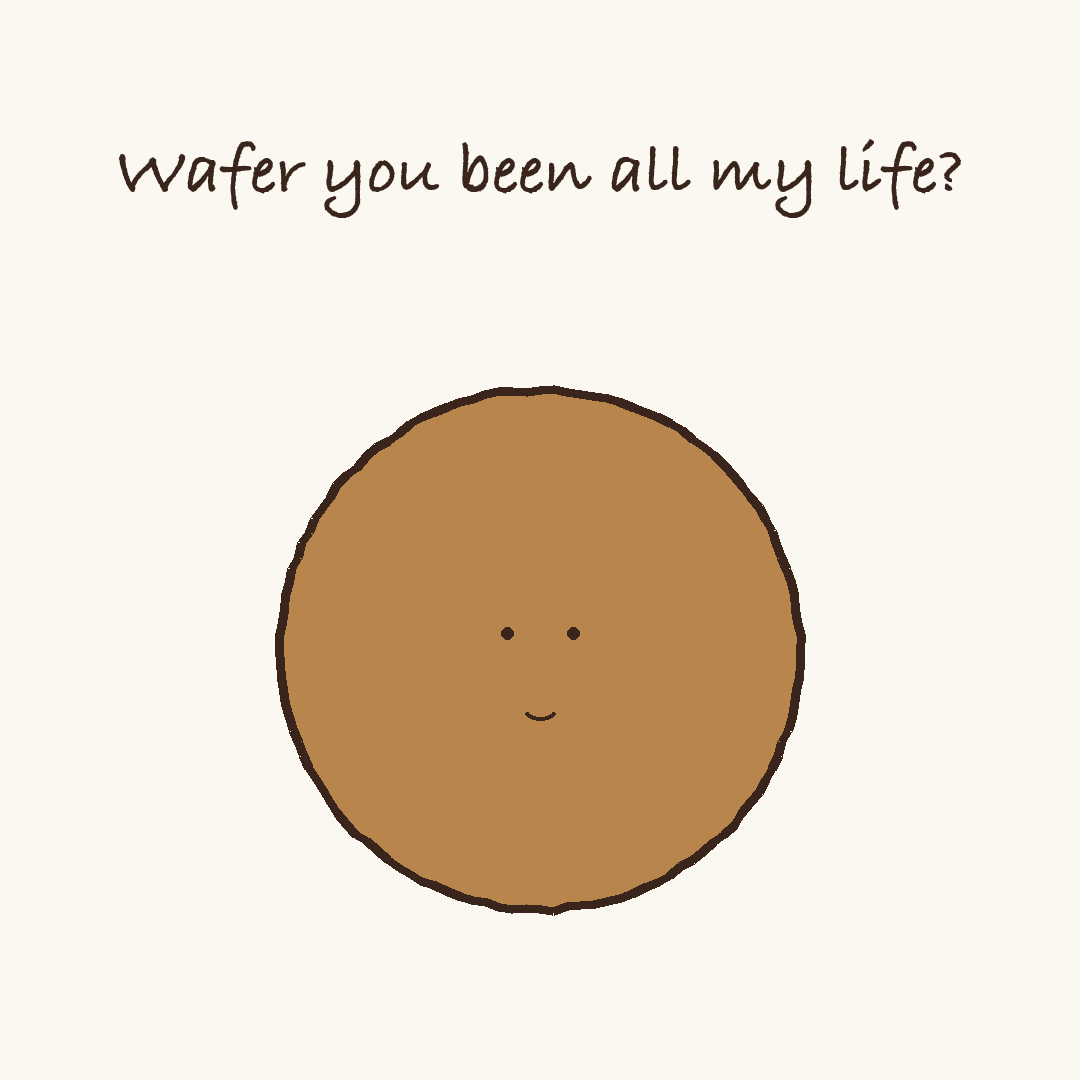
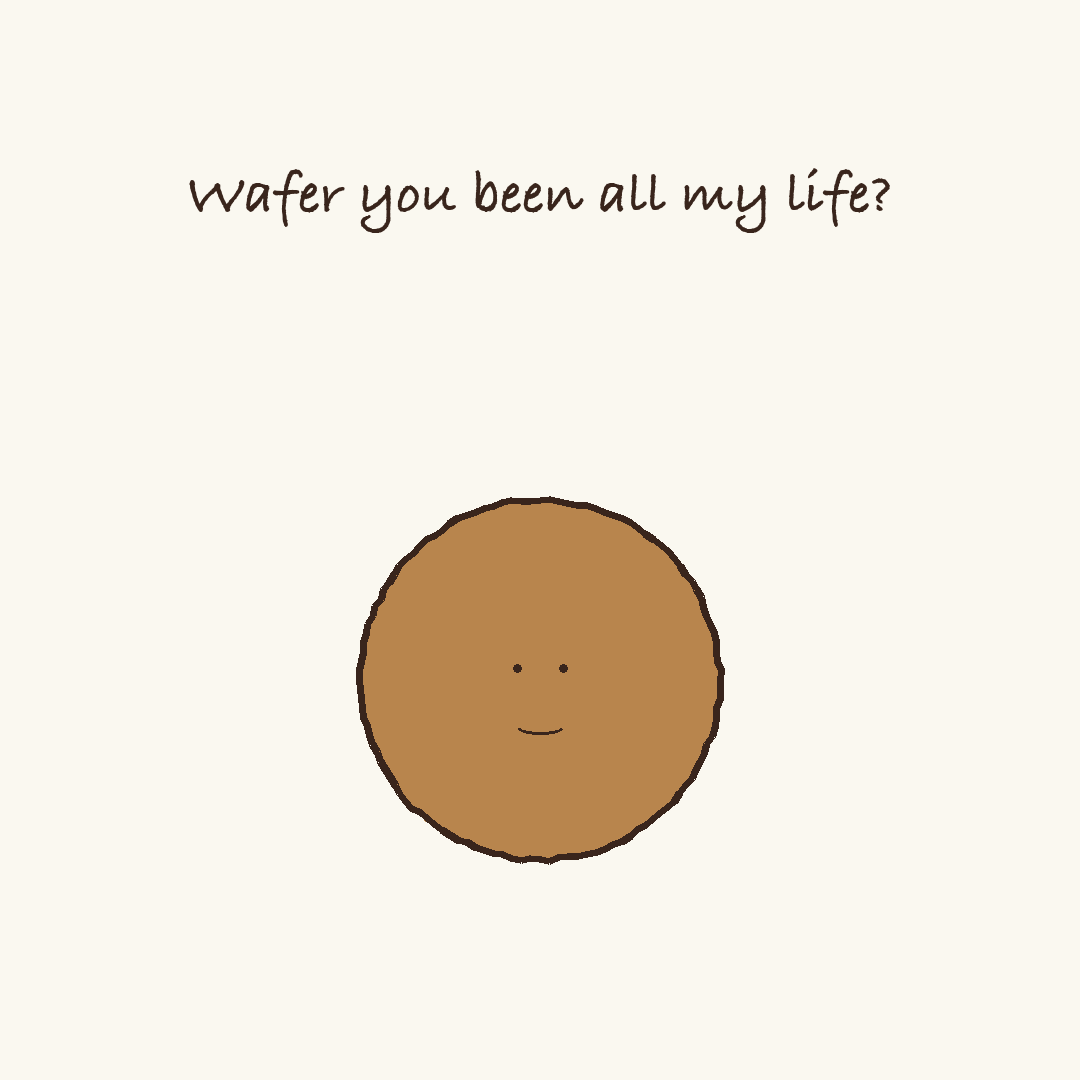
HeyTea minimalism: shrink wafer tile to r=180, more breathing room
Wafer radius 260→180 (~33% of canvas), font 70→58px, wafer floats
lower with generous empty space above and around it — matches the
HeyTea one-subject-per-tile, never-crowded grid principle.

diff --git a/lock_illust_03_wafer.py b/lock_illust_03_wafer.py
@@ -26,30 +26,33 @@ def wobbly_circle_points(cx, cy, r, n=120, jitter=2.0, seed=22):
     return pts
 
 
-def draw_locked_wafer(d, cx, cy, r=260):
-    """LOCKED wafer — updated 2026-05-19 to match SpoonScoop character face.
-    Tiny close-together dot eyes, barely-bent mini smile dash."""
+def draw_locked_wafer(d, cx, cy, r=180):
+    """LOCKED wafer — HeyTea minimalism update 2026-05-19.
+    Smaller (r=180), more breathing room, face scaled accordingly."""
+    s = r / 125  # scale factor from SpoonScoop SVG coords
     body = wobbly_circle_points(cx, cy, r, n=120, jitter=2.0, seed=22)
     d.polygon(body, fill=NILLA_DEEP)
     out = wobbly_circle_points(cx, cy, r, n=120, jitter=1.8, seed=33)
-    d.line(out + [out[0]], fill=BROWN, width=9)
-    # Eyes: small dots, close together (matching SpoonScoop cx=±16, cy=-8, r=3 scaled by 260/125)
-    eye_r = 6
-    eye_y = cy - 17
-    eye_dx = 33
+    d.line(out + [out[0]], fill=BROWN, width=7)
+    # Eyes scaled from SpoonScoop (cx=±16, cy=-8, r=3)
+    eye_r  = max(3, round(3 * s))
+    eye_dx = round(16 * s)
+    eye_y  = cy - round(8 * s)
     d.ellipse([cx - eye_dx - eye_r, eye_y - eye_r, cx - eye_dx + eye_r, eye_y + eye_r], fill=BROWN)
     d.ellipse([cx + eye_dx - eye_r, eye_y - eye_r, cx + eye_dx + eye_r, eye_y + eye_r], fill=BROWN)
-    # Smile: tiny barely-bent dash (matching SpoonScoop M -8 28 Q 0 31 8 28 scaled)
-    d.arc([cx - 16, cy + 50, cx + 16, cy + 70], start=15, end=165, fill=BROWN, width=4)
+    # Smile scaled from SpoonScoop (M -8 28 Q 0 31 8 28)
+    sm_w = round(16 * s)
+    sm_y = cy + round(28 * s)
+    d.arc([cx - sm_w, sm_y, cx + sm_w, sm_y + round(10 * s)], start=15, end=165, fill=BROWN, width=3)
 
 
 img = Image.new("RGB", (CANVAS, CANVAS), PASTEL_YELLOW)
 d = ImageDraw.Draw(img)
-font = ImageFont.truetype(FONT_PATH, 70)
+font = ImageFont.truetype(FONT_PATH, 58)  # smaller text — more breathing room
 text = "Wafer you been all my life?"
 bbox = d.textbbox((0, 0), text, font=font)
 tw = bbox[2] - bbox[0]
-d.text(((CANVAS - tw) // 2, 130), text, font=font, fill=BROWN)
-draw_locked_wafer(d, cx=CANVAS // 2, cy=CANVAS // 2 + 110)
+d.text(((CANVAS - tw) // 2, 160), text, font=font, fill=BROWN)
+draw_locked_wafer(d, cx=CANVAS // 2, cy=CANVAS // 2 + 140)  # floats lower, more space above
 img.save(OUT, quality=95)
 print(f"Locked: {OUT}")